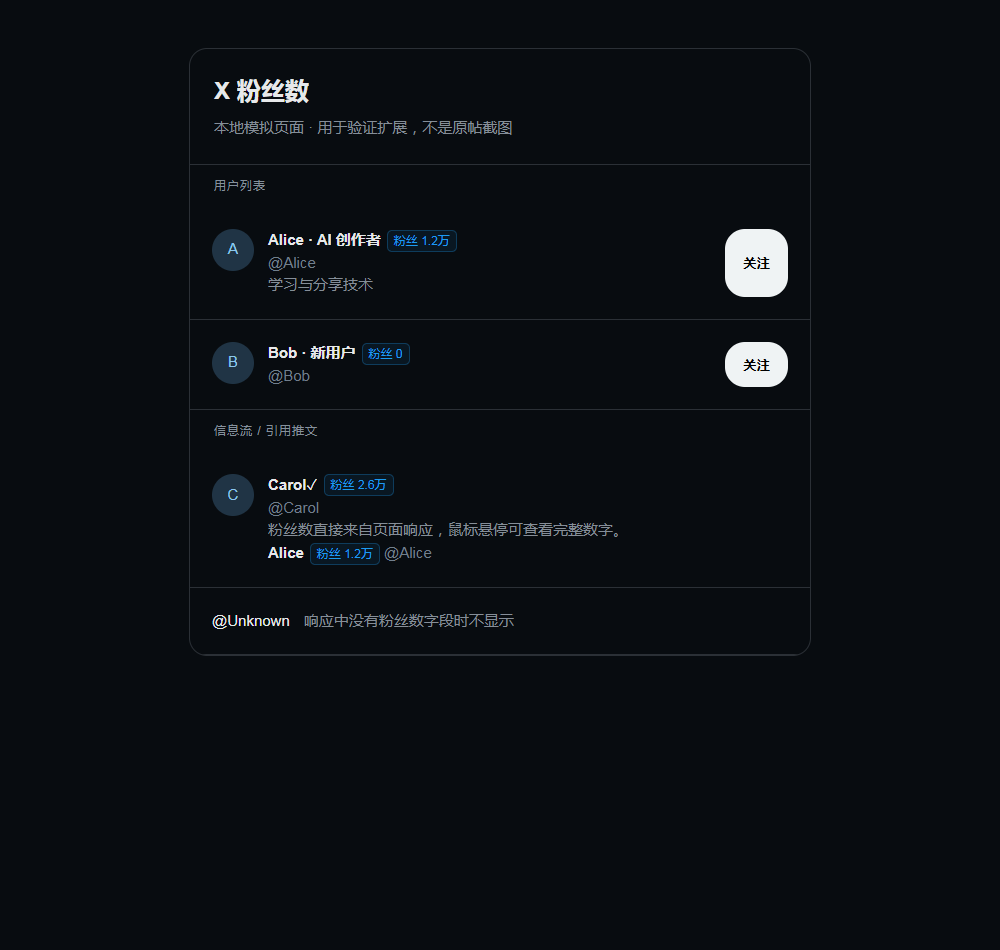
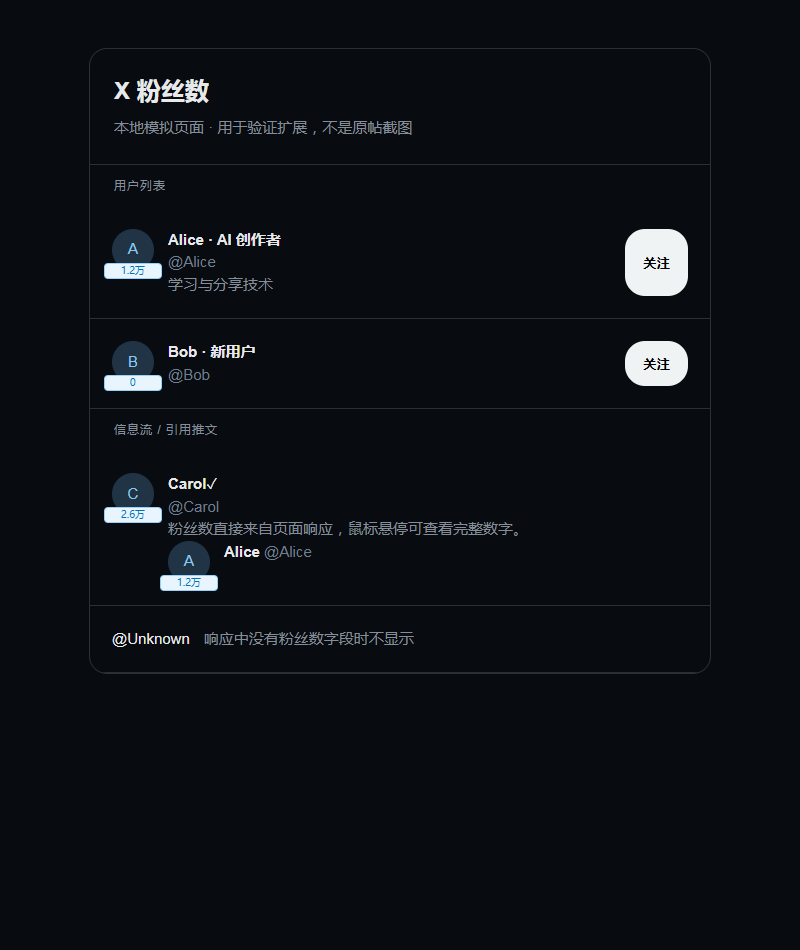
Fix X follower count rendering stability v1.0.3

diff --git a/content.js b/content.js
@@ -9,12 +9,18 @@
   let timer;
   let claimed = false;
   let stopped = false;
+  let layer;
+  let frame;
+  let bodyObserved = false;
+  const entries = new Map();
   function ownsPage() {
     const root = document.documentElement;
     if (!root) return true;
     if (!claimed) {
       root.dataset.xfcRenderer = rendererId;
       claimed = true;
+      // Remove both floating and former inline labels on renderer takeover.
+      document.querySelectorAll(".xfc-layer, .xfc-badge").forEach(node => node.remove());
     }
     return root.dataset.xfcRenderer === rendererId;
   }
@@ -47,54 +53,93 @@
     }
     for (const link of links) {
       const handle = profileHandle(link);
-      if (handle && link.closest('[data-testid="UserAvatar-Container-' + handle + '"]')) continue;
-      if (handle && !link.querySelector("img") && linkText(link)) return { handle, target: link };
+      if (link.closest('[data-testid^="UserAvatar-Container-"]')) continue;
+      if (handle && linkText(link)) return { handle, target: link };
     }
     return null;
+  }
+  function findAvatar(host, handle) {
+    const scope = host.closest('[data-testid="UserCell"], [data-testid="quoteTweet"], [data-testid="tweet"]');
+    if (!scope) return null;
+    return [...scope.querySelectorAll('[data-testid^="UserAvatar-Container-"]')].find(avatar =>
+      avatar.dataset.testid.slice("UserAvatar-Container-".length).toLowerCase() === handle &&
+      [...avatar.querySelectorAll("a[href]")].some(link => profileHandle(link) === handle)) || null;
+  }
+  function setStyle(node, key, value) {
+    if (node.style[key] !== value) node.style[key] = value;
+  }
+  function positionBadges() {
+    frame = null;
+    if (stopped || !ownsPage()) return stop();
+    const positions = [...entries.values()].map(({ avatar, badge }) => {
+      const rect = avatar.getBoundingClientRect();
+      const x = rect.left + rect.width / 2, y = rect.top + rect.height / 2;
+      let visible = avatar.isConnected && rect.width >= 24 && rect.height >= 24 &&
+        x >= 0 && x < innerWidth && y >= 0 && y < innerHeight;
+      if (visible) {
+        // Sticky headers, dialogs and scroll clips must also hide the label.
+        const hit = document.elementsFromPoint(x, y).find(node => !node.closest(".xfc-layer"));
+        visible = !!hit && avatar.contains(hit);
+      }
+      return { badge, visible, left: Math.min(innerWidth - 29, Math.max(29, x)), top: rect.bottom - 8 };
+    });
+    for (const { badge, visible, left, top } of positions) {
+      if (badge.hidden === visible) badge.hidden = !visible;
+      if (!visible) continue;
+      setStyle(badge, "left", left + "px");
+      setStyle(badge, "top", top + "px");
+    }
+    observer.takeRecords();
+  }
+  function schedulePositions() {
+    if (stopped || !ownsPage()) return stop();
+    if (frame === undefined || frame === null) frame = requestAnimationFrame(positionBadges);
   }
   function render() {
     timer = null;
     if (stopped || !ownsPage()) return stop();
-    // Shared DOM diagnostics let us inspect injection without reading private page state.
-    if (document.documentElement) {
-      document.documentElement.dataset.xfcVersion = '1.0.2';
-      document.documentElement.dataset.xfcUsers = String(cache.size);
+    const root = document.documentElement;
+    if (!root || !document.body) return;
+    root.dataset.xfcVersion = "1.0.3";
+    root.dataset.xfcUsers = String(cache.size);
+    if (!layer?.isConnected) {
+      layer = document.createElement("div");
+      layer.className = "xfc-layer";
+      document.body.append(layer);
     }
+    if (!bodyObserved) { resizeObserver.observe(document.body); bodyObserved = true; }
+    const retained = new Set(), avatars = new Set();
     for (const host of document.querySelectorAll(SELECTOR)) {
       const owner = findOwner(host);
-      const badges = [...host.querySelectorAll(".xfc-badge")].filter(badge => badge.closest(SELECTOR) === host);
       const followers = owner ? cache.get(owner.handle) : undefined;
-      if (!owner || followers === undefined) {
-        badges.forEach(badge => badge.remove());
-        continue;
+      const avatar = owner && followers !== undefined ? findAvatar(host, owner.handle) : null;
+      if (!avatar || avatars.has(avatar)) continue;
+      retained.add(host);
+      avatars.add(avatar);
+      let entry = entries.get(host);
+      if (!entry) {
+        entry = { badge: document.createElement("a") };
+        entry.badge.className = "xfc-badge";
+        entry.badge.hidden = true;
+        entries.set(host, entry);
       }
-      let badge = badges.shift();
-      badges.forEach(extra => extra.remove());
-      if (!badge) {
-        badge = document.createElement("span");
-        badge.className = "xfc-badge";
-      }
-      const label = "粉丝 " + formatCount(followers);
+      entry.avatar = avatar;
+      const badge = entry.badge;
+      const label = formatCount(followers);
       const title = "@" + owner.handle + " · " + followers.toLocaleString("zh-CN") + " 粉丝（来自当前页面响应）";
       if (badge.textContent !== label) badge.textContent = label;
       if (badge.title !== title) badge.title = title;
       if (badge.dataset.handle !== owner.handle) badge.dataset.handle = owner.handle;
       if (badge.getAttribute("aria-label") !== title) badge.setAttribute("aria-label", title);
-      const nameLink = [...host.querySelectorAll('a[href]')].find(link =>
-        link.closest(SELECTOR) === host && profileHandle(link) === owner.handle &&
-        !link.querySelector('img') && linkText(link) &&
-        !linkText(link).startsWith('@'));
-      const row = nameLink?.firstElementChild;
-      if (row && getComputedStyle(row).display === 'flex' && getComputedStyle(row).flexDirection === 'row') {
-        // Keep a mounted badge in place when X adds other name decorations.
-        if (badge.parentNode !== row) row.append(badge);
-      } else {
-        const target = nameLink || owner.target;
-        if (target.nextSibling !== badge) target.after(badge);
-      }
+      const href = "/" + owner.handle;
+      if (badge.getAttribute("href") !== href) badge.setAttribute("href", href);
+      if (badge.parentNode !== layer) layer.append(badge);
     }
-    // DOM writes above belong to this renderer; they must not schedule it again.
-    // Page mutations happen in later tasks and are still observed normally.
+    for (const [host, entry] of entries) {
+      if (!retained.has(host)) { entry.badge.remove(); entries.delete(host); }
+    }
+    positionBadges();
+    // The overlay has no space in the page layout; its writes need no render.
     observer.takeRecords();
   }
   function schedule() {
@@ -115,12 +160,23 @@
     schedule();
   }
   window.addEventListener("message", onMessage);
-  const observer = new MutationObserver(schedule);
+  const observer = new MutationObserver(records => {
+    if (records.some(record => !layer?.contains(record.target))) schedule();
+  });
+  const resizeObserver = new ResizeObserver(schedulePositions);
+  window.addEventListener("scroll", schedulePositions, true);
+  window.addEventListener("resize", schedulePositions);
   function stop() {
     stopped = true;
     clearTimeout(timer);
+    cancelAnimationFrame(frame);
     observer.disconnect();
+    resizeObserver.disconnect();
+    layer?.remove();
+    entries.clear();
     window.removeEventListener("message", onMessage);
+    window.removeEventListener("scroll", schedulePositions, true);
+    window.removeEventListener("resize", schedulePositions);
   }
   globalThis.__xFollowerContentController = { stop };
   observer.observe(document, { childList: true, subtree: true, characterData: true, attributes: true, attributeFilter: ["href", "data-testid"] });

diff --git a/tests/fixture.html b/tests/fixture.html
@@ -9,7 +9,8 @@
   h1 { margin: 0 0 8px; font-size: 24px; }
   p { color: #858e98; margin: 0; }
   .row { display: flex; gap: 14px; padding: 22px; border-bottom: 1px solid #2b3036; }
-  .avatar { border-radius: 50%; width: 42px; height: 42px; display: grid; place-items: center; background: #203445; color: #8dc7ec; }
+  .avatar { flex-shrink: 0; border-radius: 50%; width: 42px; height: 42px; background: #203445; color: #8dc7ec; }
+  .avatar > a { width: 100%; height: 100%; display: grid; place-items: center; }
   a { color: inherit; text-decoration: none; }
   .name { font-weight: 700; }
   .handle { color: #717f8c; }
@@ -23,18 +24,18 @@ window.__INITIAL_STATE__ = { users: [{ core: { screen_name: 'Alice' }, relations
   <header><h1>X 粉丝数</h1><p>本地模拟页面 · 用于验证扩展，不是原帖截图</p></header>
   <div class="section">用户列表</div>
   <div class="row" data-testid="UserCell" id="alice">
-    <div class="avatar">A</div><div><a class="name" href="/Alice"><span>Alice · AI 创作者</span></a><br>
+    <div class="avatar" data-testid="UserAvatar-Container-Alice"><a href="/Alice">A</a></div><div><a class="name" href="/Alice"><span>Alice · AI 创作者</span></a><br>
     <a class="handle" href="/Alice"><span>@Alice</span></a><p>学习与分享技术</p></div><button>关注</button>
   </div>
   <div class="row" data-testid="UserCell" id="bob">
-    <div class="avatar">B</div><div><a class="name" href="/Bob"><span>Bob · 新用户</span></a><br>
+    <div class="avatar" data-testid="UserAvatar-Container-Bob"><a href="/Bob">B</a></div><div><a class="name" href="/Bob"><span>Bob · 新用户</span></a><br>
     <a class="handle" href="/Bob"><span>@Bob</span></a></div><button>关注</button>
   </div>
   <div class="section">信息流 / 引用推文</div>
-  <article class="row" data-testid="tweet"><div class="avatar">C</div><div>
+  <article class="row" data-testid="tweet"><div class="avatar" data-testid="UserAvatar-Container-Carol"><a href="/Carol">C</a></div><div>
     <div data-testid="User-Name" id="carol"><a href="/Carol"><div style="display:flex;flex-direction:row;align-items:center"><span class="name">Carol</span><span aria-label="Verified account">✓</span></div></a> <a class="handle" href="/Carol"><span>@Carol</span></a></div>
     <p>粉丝数直接来自页面响应，鼠标悬停可查看完整数字。</p>
-    <div data-testid="User-Name" id="quote"><a href="/Alice"><span class="name">Alice</span></a> <a class="handle" href="/Alice"><span>@Alice</span></a></div>
+    <div data-testid="quoteTweet" style="display:flex;gap:14px"><div class="avatar" data-testid="UserAvatar-Container-Alice"><a href="/Alice">A</a></div><div data-testid="User-Name" id="quote"><a href="/Alice"><span class="name">Alice</span></a> <a class="handle" href="/Alice"><span>@Alice</span></a></div></div>
   </div></article>
   <div class="row" data-testid="UserCell" id="unknown"><a href="/Unknown"><span>@Unknown</span></a><p>响应中没有粉丝数字段时不显示</p></div>
 </main>

diff --git a/style.css b/style.css
@@ -1,18 +1,32 @@
-.xfc-badge {
-  display: inline-block;
-  box-sizing: border-box;
-  height: 20px;
-  flex-shrink: 0;
-  margin-inline-start: 6px;
-  padding: 0 6px;
-  border: 1px solid rgba(29, 155, 240, .28);
-  border-radius: 5px;
-  color: rgb(29, 155, 240);
-  background: rgba(29, 155, 240, .08);
-  font-size: 12px;
-  font-weight: 500;
-  line-height: 18px;
-  white-space: nowrap;
-  vertical-align: middle;
-  font-variant-numeric: tabular-nums;
+.xfc-layer {
+  all: initial;
+  position: fixed;
+  inset: 0;
+  z-index: 2;
+  pointer-events: none;
+  contain: layout style;
 }
+.xfc-layer .xfc-badge {
+  all: initial;
+  display: block;
+  position: fixed;
+  box-sizing: border-box;
+  width: 58px;
+  height: 16px;
+  transform: translateX(-50%);
+  padding: 0 3px;
+  border: 1px solid rgba(29, 155, 240, .4);
+  border-radius: 4px;
+  color: rgb(0, 112, 185);
+  background: rgb(232, 245, 255);
+  font: 500 10px/14px system-ui, sans-serif;
+  text-align: center;
+  white-space: nowrap;
+  overflow: hidden;
+  text-overflow: ellipsis;
+  font-variant-numeric: tabular-nums;
+  pointer-events: auto;
+  cursor: pointer;
+}
+.xfc-layer .xfc-badge[hidden] { display: none; }
+.xfc-layer .xfc-badge:focus-visible { outline: 2px solid rgb(29, 155, 240); }

diff --git a/docs/PUBLISHING.md b/docs/PUBLISHING.md
@@ -4,7 +4,7 @@
 
 先使用 GitHub 维护源码、收集兼容性反馈并提供 Release 下载，再通过 Chrome Web Store 面向普通用户分发。两者可以并行维护同一套源码。
 
-项目仓库：<https://github.com/felixwong1989/x-follower-count>。首个版本为 `v1.0.1`，运行 ZIP 在对应 Release 中提供。
+项目仓库：<https://github.com/felixwong1989/x-follower-count>。最新版本为 `v1.0.3`，运行 ZIP 在对应 Release 中提供。
 
 ## 上传到 GitHub
 
@@ -14,13 +14,13 @@
 ```sh
 git init -b main
 git add .
-git commit -m "Initial X follower count extension v1.0.1"
+git commit -m "Initial X follower count extension v1.0.3"
 git remote add origin https://github.com/YOUR_ACCOUNT/x-follower-count.git
 git push -u origin main
 ```
 
 3. 使用 `python scripts/package.py` 生成运行包。
-4. 创建 `v1.0.1` Release，附上运行 ZIP 和 CHANGELOG 中的版本说明。
+4. 创建 `v1.0.3` Release，附上运行 ZIP 和 CHANGELOG 中的版本说明。
 
 参考：[创建仓库](https://docs.github.com/en/repositories/creating-and-managing-repositories/creating-a-new-repository)、[GitHub Releases](https://docs.github.com/en/repositories/releasing-projects-on-github/about-releases)。
 

diff --git a/CHANGELOG.md b/CHANGELOG.md
@@ -1,5 +1,14 @@
 # Changelog
 
+## 1.0.3 — 2026-10-10
+
+- 移除姓名行内嵌标签，改为头像下沿的独立浮层，不参与页面宽度和高度计算。
+- 修复姓名链接内含关联标识图片时被误判为头像的问题；只使用对应账号的 UserAvatar 容器定位。
+- 跟踪窗口/容器滚动和尺寸变化；头像被菜单、弹窗、固定页头遮挡时隐藏标签。
+- 无匹配头像、头像过小或用户行被移除时不显示，避免猜测回退位置。
+- 6 项解析测试和 8 组实际扩展浏览器测试通过；四种窄宽度及不同粉丝数均保持推文几何尺寸不变。
+- 真实搜索 DOM 布局验证通过；15 个真实用户行与响应的回放匹配通过。
+
 ## 1.0.2 — 2026-10-10
 
 - 使用完整 profile href 识别被缩短的 @用户名，避免广告品牌链接被误认为作者，导致标签反复增删。

diff --git a/docs/PRIVACY.md b/docs/PRIVACY.md
@@ -1,6 +1,6 @@
 # 数据处理说明
 
-版本：1.0.1。更新日期：2026-10-10。
+版本：1.0.3。更新日期：2026-10-10。
 
 本扩展用于在 X 用户列表与信息流中显示用户粉丝数。
 
